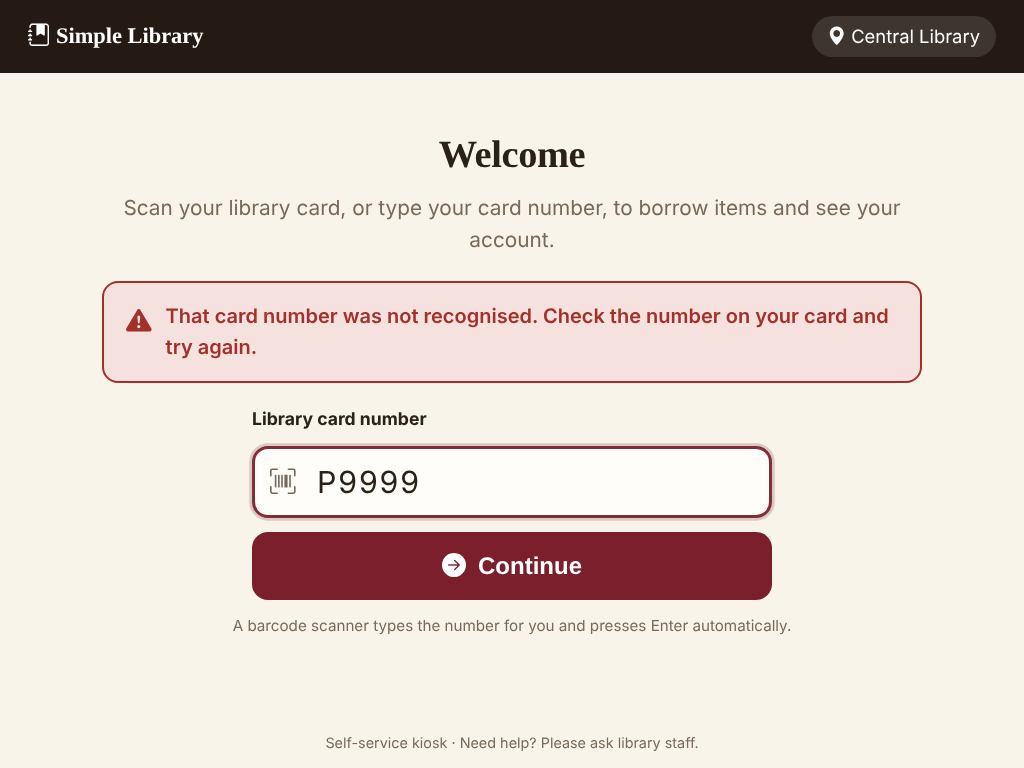
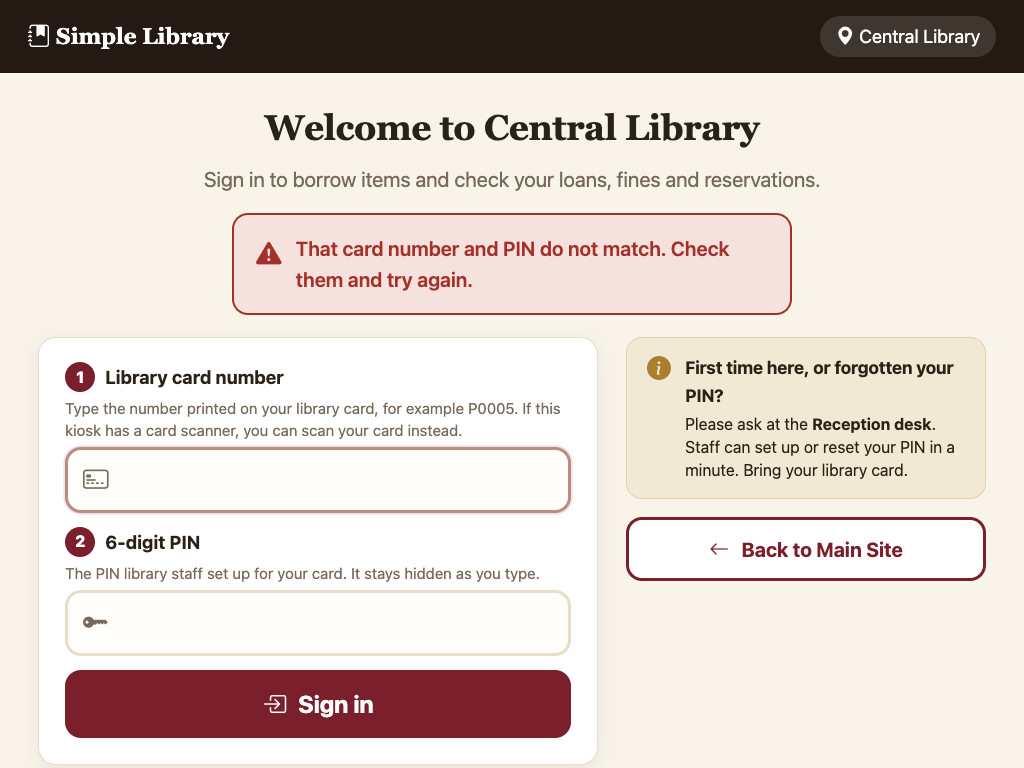
Kiosk: clearer sign-in, accessible validation and updated screenshots
Reviewed the kiosk as a first-time patron: branch choice, card and PIN,
account, borrowing, confirmation and sign-out.

- Welcome: "Welcome to <branch>", two numbered steps (card number, PIN)
  with hints that stay visible, a "First time here, or forgotten your
  PIN?" panel pointing to the Reception desk, and "Sign in". On wide
  screens the help and Back to Main Site sit beside the form, so the
  screen fits a laptop or tablet without scrolling.
- Scanning is described honestly: the app has no camera or barcode
  reading, so the screens say a scanner can be used if one is attached.
- Inline, accessible validation (aria-invalid, aria-describedby, live
  error text) for the card number, PIN and item code; non-digits are
  dropped from the PIN; Sign in and Borrow cannot be pressed twice.
- Account: Finish and sign out also at the top (same server-side form),
  a next-step line after borrowing, and a privacy note on auto sign-out.
  The account screen still has no links off it.
- Branch choice: patron wording; the staff bookmark hint moves to the
  user guide. Stronger focus outlines and a one-line header on phones.
- User guide updated, with all kiosk and Borrowers screenshots retaken
  from the running app on fresh demo data (no real PINs or credentials).
- Regression tests for the wording, help, validation wiring, honest
  scanning text and sign-out-only exit.

diff --git a/wwwroot/css/kiosk.css b/wwwroot/css/kiosk.css
@@ -15,7 +15,7 @@ body.kiosk { font-size: 20px; min-height: 100vh; display: flex; flex-direction: 
 .kiosk-brand { font-family: Georgia, "Times New Roman", serif; font-weight: 700; font-size: 1.4rem; }
 .kiosk-branch { background: rgba(255, 255, 255, 0.12); padding: 6px 16px; border-radius: 999px; }
 
-.kiosk-main { flex: 1; width: 100%; max-width: 860px; margin: 0 auto; padding: 28px 20px 40px; }
+.kiosk-main { flex: 1; width: 100%; max-width: 860px; margin: 0 auto; padding: 24px 20px 28px; }
 .kiosk-foot { text-align: center; color: var(--muted); padding: 14px; font-size: 0.9rem; }
 
 .kiosk-panel h1 { font-size: 2.4rem; margin: 0 0 8px; }
@@ -23,16 +23,64 @@ body.kiosk { font-size: 20px; min-height: 100vh; display: flex; flex-direction: 
 .kiosk-hint { color: var(--muted); font-size: 0.95rem; margin: 14px 0 0; }
 .kiosk-empty { color: var(--muted); margin: 6px 0; }
 
-.kiosk-welcome { text-align: center; padding-top: 24px; }
-.kiosk-welcome .kiosk-form { max-width: 520px; margin: 0 auto; }
+.kiosk-welcome { text-align: center; padding-top: 4px; }
+.kiosk-welcome h1 { font-size: 2.2rem; }
+.kiosk-welcome .kiosk-lead { margin-bottom: 18px; }
+.kiosk-welcome .kiosk-message { max-width: 560px; margin-left: auto; margin-right: auto; }
+
+/* Sign-in card: two numbered steps, each with a hint above and an error below the box. */
+.kiosk-signin {
+  max-width: 560px;
+  margin: 0 auto;
+  padding: 24px 26px 26px;
+  text-align: left;
+  background: var(--surface);
+  border: 1px solid var(--border);
+  border-radius: 18px;
+  box-shadow: var(--shadow);
+  gap: 18px;
+}
+.kiosk-field { display: grid; gap: 6px; }
+.kiosk-step {
+  display: inline-grid;
+  place-items: center;
+  flex: none;
+  width: 30px;
+  height: 30px;
+  border-radius: 50%;
+  background: var(--primary);
+  color: #fff;
+  font-size: 1rem;
+  font-weight: 800;
+}
+.kiosk-field-hint { margin: 0; color: var(--muted); font-size: 0.95rem; line-height: 1.4; }
+.kiosk-field-error { margin: 0; color: var(--danger); font-size: 1rem; font-weight: 700; }
+.kiosk-field-error:empty { display: none; }
+
+/* "First time / forgotten PIN" help, in the library's accent colour. */
+.kiosk-help {
+  max-width: 560px;
+  margin: 18px auto 0;
+  display: flex;
+  gap: 14px;
+  align-items: flex-start;
+  padding: 16px 20px;
+  text-align: left;
+  background: var(--accent-tint);
+  border: 1px solid #e3d2ab;
+  border-radius: 16px;
+}
+.kiosk-help > i { font-size: 1.5rem; color: var(--accent); line-height: 1.2; }
+.kiosk-help h2 { font-family: inherit; font-size: 1.1rem; margin: 0 0 4px; color: var(--text); }
+.kiosk-help p { margin: 0; font-size: 1rem; color: var(--text); line-height: 1.45; }
 
 .kiosk-form { display: grid; gap: 14px; }
-.kiosk-label { font-weight: 700; font-size: 1.1rem; text-align: left; }
+.kiosk-label { display: flex; align-items: center; gap: 10px; font-weight: 700; font-size: 1.15rem; text-align: left; }
 .kiosk-input-row { position: relative; }
 .kiosk-input-row i { position: absolute; left: 18px; top: 50%; transform: translateY(-50%); font-size: 1.6rem; color: var(--muted); }
 .kiosk-input-row input {
   width: 100%;
-  height: 72px;
+  height: 66px;
   font-size: 1.9rem;
   letter-spacing: 0.06em;
   padding: 0 18px 0 62px;
@@ -41,7 +89,8 @@ body.kiosk { font-size: 20px; min-height: 100vh; display: flex; flex-direction: 
   text-transform: uppercase;
 }
 .kiosk-input-row input::placeholder { text-transform: none; letter-spacing: 0; color: #a99b8a; }
-.kiosk-input-row input:focus { border-color: var(--primary); outline: none; box-shadow: var(--focus-ring); }
+.kiosk-input-row input:focus { border-color: var(--primary); outline: none; box-shadow: 0 0 0 4px rgba(122, 31, 43, 0.3); }
+.kiosk-input-row input[aria-invalid="true"] { border-color: var(--danger); background: #fffafa; }
 
 .kiosk-btn {
   display: inline-flex;
@@ -63,7 +112,10 @@ body.kiosk { font-size: 20px; min-height: 100vh; display: flex; flex-direction: 
   touch-action: manipulation;
 }
 .kiosk-btn:hover, .kiosk-btn:focus-visible { background: var(--primary-dark); color: #fff; }
+.kiosk-btn:focus-visible { outline: 3px solid var(--primary-dark); outline-offset: 3px; }
 .kiosk-btn:active { transform: scale(0.98); }
+.kiosk-btn:disabled { opacity: 0.75; cursor: progress; transform: none; }
+.kiosk-btn-compact { min-height: 52px; padding: 0 20px; font-size: 1.1rem; gap: 10px; }
 .kiosk-btn-secondary { background: #fff; color: var(--primary); border: 3px solid var(--primary); }
 .kiosk-btn-secondary:hover, .kiosk-btn-secondary:focus-visible { background: var(--primary-tint); color: var(--primary-dark); }
 .kiosk-btn-wide { width: 100%; }
@@ -84,8 +136,10 @@ body.kiosk { font-size: 20px; min-height: 100vh; display: flex; flex-direction: 
 .kiosk-error { background: var(--danger-bg); color: var(--danger); border: 2px solid var(--danger); }
 .kiosk-success { background: var(--success-bg); color: var(--success); border: 2px solid var(--success); }
 
-.kiosk-hello { display: flex; justify-content: space-between; align-items: center; flex-wrap: wrap; gap: 10px; margin-bottom: 18px; }
+.kiosk-hello { display: flex; justify-content: space-between; align-items: center; flex-wrap: wrap; gap: 12px 16px; margin-bottom: 18px; }
+.kiosk-hello-name { display: flex; align-items: center; flex-wrap: wrap; gap: 8px 14px; }
 .kiosk-hello h1 { margin: 0; }
+.kiosk-message-next { display: block; margin-top: 4px; font-size: 1rem; font-weight: 500; }
 .kiosk-card-tag { background: var(--accent-tint); color: var(--warning); padding: 6px 16px; border-radius: 999px; font-weight: 700; }
 
 .kiosk-card { background: var(--surface); border: 1px solid var(--border); border-radius: 18px; padding: 22px; margin-bottom: 20px; box-shadow: var(--shadow); }
@@ -104,16 +158,27 @@ body.kiosk { font-size: 20px; min-height: 100vh; display: flex; flex-direction: 
 .kiosk-fine-total { font-size: 2rem; font-weight: 800; color: var(--danger); margin: 0 0 10px; }
 .kiosk-fine-total span { font-size: 1rem; font-weight: 600; color: var(--muted); }
 
-.kiosk-done { display: flex; align-items: center; gap: 18px; flex-wrap: wrap; margin-top: 8px; }
+.kiosk-done { display: flex; align-items: center; gap: 10px 18px; flex-wrap: wrap; margin-top: 8px; }
+.kiosk-privacy { margin: 0; }
 .kiosk-done form { margin: 0; }
 .kiosk-idle { color: var(--danger); font-weight: 700; }
 
-.kiosk-exit { display: flex; justify-content: center; margin-top: 28px; padding-top: 22px; border-top: 1px solid var(--border); }
+.kiosk-exit { display: flex; justify-content: center; margin-top: 22px; padding-top: 18px; border-top: 1px solid var(--border); }
 /* site.css styles every <nav> as the staff menu (on phones: right padding, a fade-out
    mask and sideways scrolling). The kiosk's exit landmark is not that menu. */
 .kiosk-exit { flex: none; order: 0; flex-wrap: nowrap; overflow: visible; padding-right: 0; -webkit-mask-image: none; mask-image: none; }
 .kiosk-exit a { white-space: normal; }
 .kiosk-exit .kiosk-btn { min-height: 64px; font-size: 1.25rem; }
+
+/* Wide screens: sign-in on the left, help and the way out on the right, so the
+   whole welcome screen fits a laptop or landscape tablet without scrolling. */
+@media (min-width: 960px) {
+  .kiosk-main:has(.kiosk-welcome) { max-width: 1040px; }
+  .kiosk-welcome-body { display: grid; grid-template-columns: minmax(0, 560px) minmax(0, 360px); gap: 28px; justify-content: center; align-items: start; }
+  .kiosk-welcome-side .kiosk-help { margin: 0; }
+  .kiosk-welcome-side .kiosk-exit { margin-top: 18px; padding-top: 0; border-top: 0; }
+  .kiosk-welcome-side .kiosk-exit .kiosk-btn { width: 100%; }
+}
 
 @media (max-width: 560px) {
   body.kiosk { font-size: 18px; }
@@ -121,4 +186,12 @@ body.kiosk { font-size: 20px; min-height: 100vh; display: flex; flex-direction: 
   .kiosk-list li { flex-wrap: wrap; }
   .kiosk-list-side { justify-items: start; text-align: left; }
   .kiosk-exit .kiosk-btn { width: 100%; padding: 0 20px; }
+  .kiosk-welcome h1 { font-size: 1.8rem; }
+  .kiosk-signin { padding: 18px 16px 20px; }
+  .kiosk-help { padding: 14px 16px; }
+  .kiosk-hello .kiosk-btn-compact { width: 100%; }
+  .kiosk-bar { padding: 12px 16px; flex-wrap: nowrap; gap: 10px; }
+  .kiosk-brand { font-size: 1.15rem; white-space: nowrap; }
+  .kiosk-branch { font-size: 0.95rem; padding: 5px 12px; white-space: nowrap; overflow: hidden; text-overflow: ellipsis; }
+  .kiosk-btn { font-size: 1.3rem; }
 }

diff --git a/Tests/KioskControllerTests.cs b/Tests/KioskControllerTests.cs
@@ -225,6 +225,75 @@ public class KioskControllerTests
         Assert.Contains("<partial name=\"_BackToMainSite\" />", markup);
     }
 
+    [Fact]
+    public async Task Welcome_ExplainsBothStepsAndWhereToGetHelp()
+    {
+        var welcome = await File.ReadAllTextAsync(ViewPath("Welcome.cshtml"));
+
+        // Hints and inline errors are tied to their boxes for screen readers.
+        Assert.Contains("aria-describedby=\"cardHint cardError\"", welcome);
+        Assert.Contains("aria-describedby=\"pinHint pinError\"", welcome);
+        Assert.Contains("id=\"cardError\" aria-live=\"polite\"", welcome);
+        Assert.Contains("id=\"pinError\" aria-live=\"polite\"", welcome);
+
+        // First-time patrons and forgotten PINs are sent to Reception.
+        Assert.Contains("First time here, or forgotten your PIN?", welcome);
+        Assert.Contains("Reception desk", welcome);
+
+        // The form checks itself and explains problems in the kiosk's words.
+        Assert.Contains("novalidate", welcome);
+        Assert.Contains("Enter your 6-digit PIN.", welcome);
+    }
+
+    [Theory]
+    [InlineData("Welcome.cshtml")]
+    [InlineData("Account.cshtml")]
+    public async Task ScanningIsOnlyMentionedAsAnOption_NeverPromised(string view)
+    {
+        // The application has no camera or barcode reading of its own. A scanner works only
+        // if one is attached and types like a keyboard, so the screens say "if".
+        var markup = await File.ReadAllTextAsync(ViewPath(view));
+
+        Assert.Contains("If this kiosk has a", markup);
+        Assert.DoesNotContain("Scan your library card", markup);
+        Assert.DoesNotContain("Scan or type", markup);
+    }
+
+    [Fact]
+    public async Task BranchChoice_ShowsNoStaffInstructionsToPatrons()
+    {
+        var markup = await File.ReadAllTextAsync(ViewPath("Index.cshtml"));
+        var visible = System.Text.RegularExpressions.Regex.Replace(markup, "@\\*.*?\\*@", "", System.Text.RegularExpressions.RegexOptions.Singleline);
+
+        Assert.DoesNotContain("Staff:", visible);
+        Assert.DoesNotContain("bookmark", visible);
+    }
+
+    [Fact]
+    public async Task Account_CanOnlyBeLeftThroughTheServerSideSignOut()
+    {
+        var account = await File.ReadAllTextAsync(ViewPath("Account.cshtml"));
+        var layout = await File.ReadAllTextAsync(Path.Combine(Path.GetDirectoryName(Path.GetDirectoryName(ViewPath("Account.cshtml")))!, "Shared", "_KioskLayout.cshtml"));
+
+        // Top and bottom buttons both submit the one sign-out form.
+        Assert.Contains("<form method=\"post\" asp-action=\"Finish\"", account);
+        Assert.Contains("form=\"kioskFinish\"", account);
+
+        // No link off the signed-in screen: not to the welcome screen, the main site or anywhere else.
+        Assert.DoesNotContain("<a ", account);
+        Assert.DoesNotContain("<a ", layout);
+    }
+
+    [Fact]
+    public async Task Account_BorrowBoxExplainsAnEmptyCodeNextToIt()
+    {
+        var account = await File.ReadAllTextAsync(ViewPath("Account.cshtml"));
+
+        Assert.Contains("aria-describedby=\"codeHint codeError\"", account);
+        Assert.Contains("id=\"codeError\" aria-live=\"polite\"", account);
+        Assert.Contains("Enter the library code on the item.", account);
+    }
+
     // Regression: on phones the staff menu's <nav> styles (right padding, fade-out mask)
     // also hit the kiosk's exit landmark, squeezing and fading the button.
     [Fact]

diff --git a/docs/SECTION2_USER_GUIDE.md b/docs/SECTION2_USER_GUIDE.md
@@ -10,11 +10,12 @@ Demo library cards: **P0001** Alice Nguyen, **P0002** Ben Carter (has an overdue
 You need your library card number and a 6-digit kiosk PIN. Library staff set up your PIN at the desk; there is no PIN until they do. Staff open the kiosk page for their branch, for example `/kiosk/CEN` for Central, and leave it on screen. The **Kiosk** link in the menu also opens it.
 
 ### Borrow an item
-1. **Choose the branch** (only if the kiosk was opened at `/kiosk`). Tap your branch.
+1. **Choose the branch** (only if the kiosk was opened at `/kiosk`). Tap the library you are visiting.
 
    ![Choose branch](section2-images/kiosk-01-choose-branch.png)
 
-2. **Identify yourself.** Scan your library card or type the number (for example `P0005`). Then type your 6-digit PIN and press Enter or tap **Continue**. If you scan your card, the kiosk moves to the PIN box by itself. Your PIN is hidden as you type. Cover the keypad if someone is close by.
+2. **Sign in.** Step 1: type the number printed on your library card (for example `P0005`). Step 2: type your 6-digit PIN, then tap **Sign in** or press Enter. Pressing Enter after the card number moves you to the PIN box. Your PIN is hidden as you type; cover the keypad if someone is close by. If a box is empty or the PIN is not 6 digits, the kiosk says so under that box. No PIN yet, or forgotten it? The help panel on the same screen sends you to the Reception desk.
+   - *Card scanners:* the kiosk has no camera or barcode reader of its own. A scanner attached to the kiosk works only if it types like a keyboard. This has not been tested with real scanner hardware.
 
    ![Welcome](section2-images/kiosk-02-welcome.png)
 
@@ -22,8 +23,8 @@ You need your library card number and a 6-digit kiosk PIN. Library staff set up 
 
    ![Account](section2-images/kiosk-04-account.png)
 
-4. **Borrow.** Scan or type the library code printed on the item (for example `B003`) and tap **Borrow**.
-5. **Read the confirmation** showing the due date (14 days from today). Borrow more items, or tap **Finish and sign out**.
+4. **Borrow.** Type the library code printed on the item's label (for example `B003`) and tap **Borrow**, or scan the label if a scanner is attached.
+5. **Read the confirmation** showing the due date (14 days from today). Borrow more items, or tap **Finish and sign out**. The button is at the top and the bottom of the screen.
 
    ![Borrowed](section2-images/kiosk-05-borrow-success.png)
 
@@ -47,8 +48,9 @@ The kiosk signs you out by itself after 60 seconds without use, so the next pers
 | "Your session ended. Please scan your library card again." | You were idle for too long, or signed in for more than 20 minutes. | Scan your card again. |
 | "This screen has expired. Please scan your library card again." | The welcome screen was already used, or was left open for over an hour. This also appears if someone presses Back and resends an earlier sign-in. | Scan your card again on the fresh screen. |
 
-![Card not recognised](section2-images/kiosk-03-card-not-recognised.png)
-![Wrong branch](section2-images/kiosk-06-wrong-branch.png)
+![Card number or PIN not accepted](section2-images/kiosk-03-card-not-recognised.png)
+![Item held at another branch](section2-images/kiosk-06-wrong-branch.png)
+![Item already on loan](section2-images/kiosk-07-already-borrowed.png)
 
 The kiosk works on phones and tablets too:
 
@@ -63,6 +65,9 @@ Fines are paid at the desk. The kiosk shows what you owe but cannot take payment
 ### Finding a patron's card number
 Open **Borrowers** (Reception or Admin). Each patron has a **Card number** column, for example `P0005`. Patrons can then use that number at the kiosk.
 
+### Setting up a kiosk
+Open the kiosk page for the branch the device stands in, for example `/kiosk/CEN` for Central, and bookmark it so the kiosk always starts there. `/kiosk` on its own shows the branch choice. This instruction is no longer shown on the patrons' branch screen.
+
 ### Setting or resetting a kiosk PIN (Reception or Admin)
 1. Open **Borrowers**. The **Kiosk PIN** column shows **Set**, **Not set** or **Locked until** a time. It never shows the PIN.
 2. Tap **Set PIN**, or **Reset PIN** if the patron already has one.
@@ -73,7 +78,7 @@ Saving clears any lockout and ends any kiosk session the patron has open. The PI
 
 There are no demonstration PINs. To try the kiosk with a demo borrower, set a PIN for them here first.
 
-![Card numbers](section2-images/staff-01-borrowers-card-numbers.png)
+![Card numbers and kiosk PIN status](section2-images/staff-01-borrowers-card-numbers.png)
 
 ### How kiosk sign-in is protected
 - **PIN:** sign-in needs the card number and the patron's 6-digit PIN. A wrong card and a wrong PIN give the same message, so the kiosk does not reveal which card numbers exist. Five wrong PINs lock the card at the kiosk for 15 minutes.
